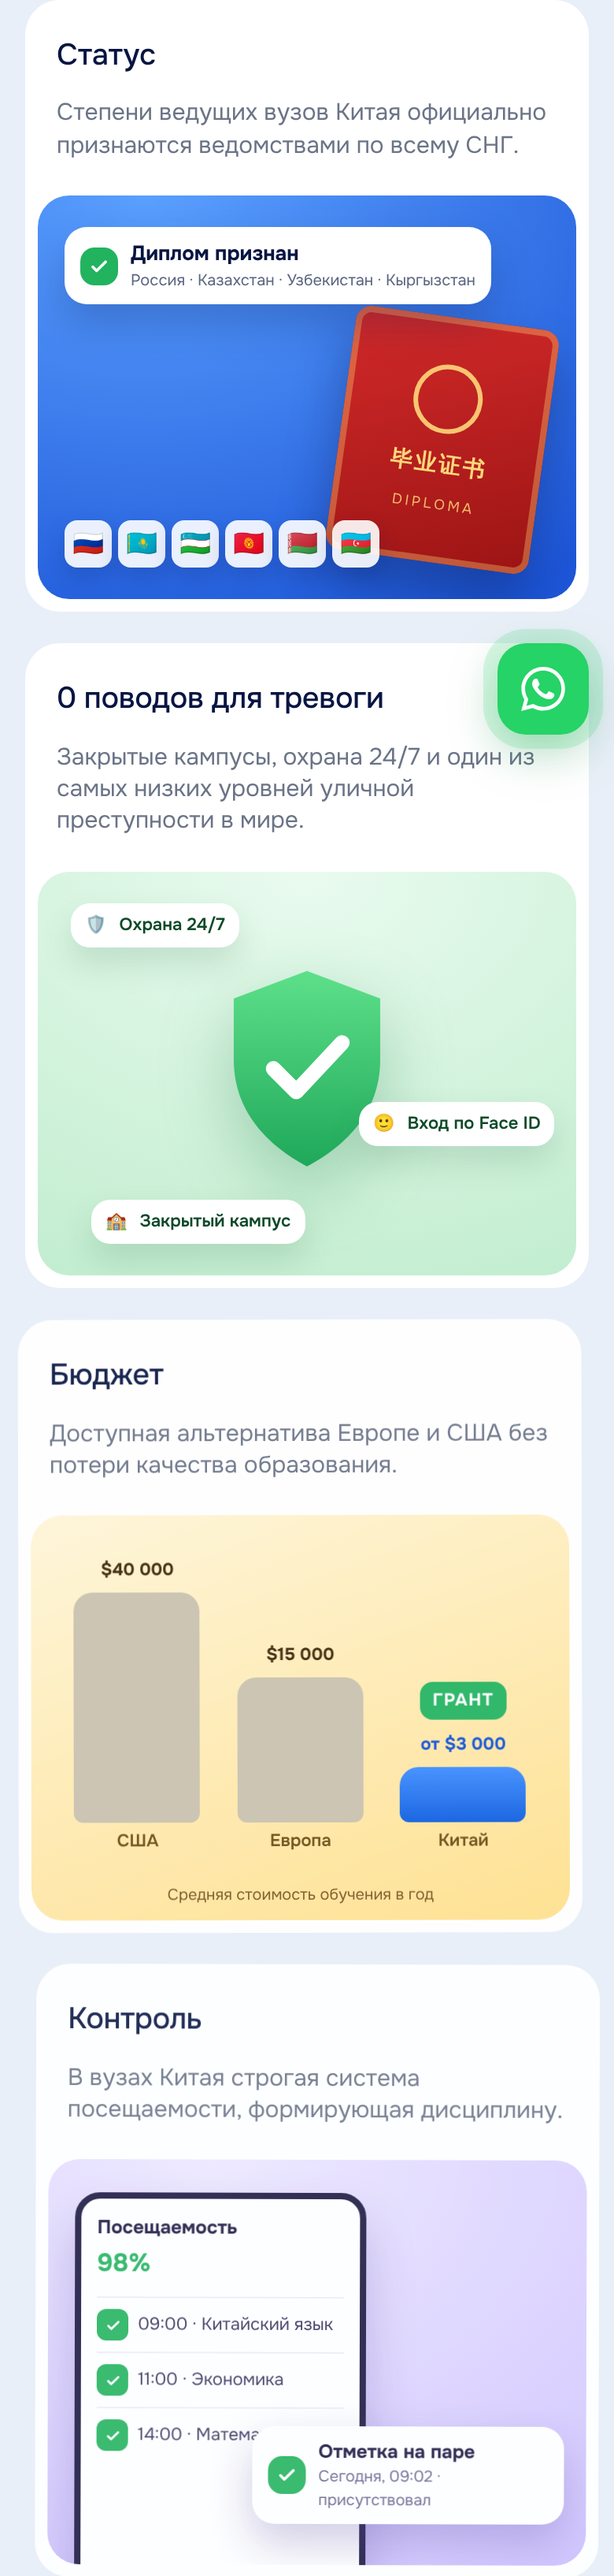
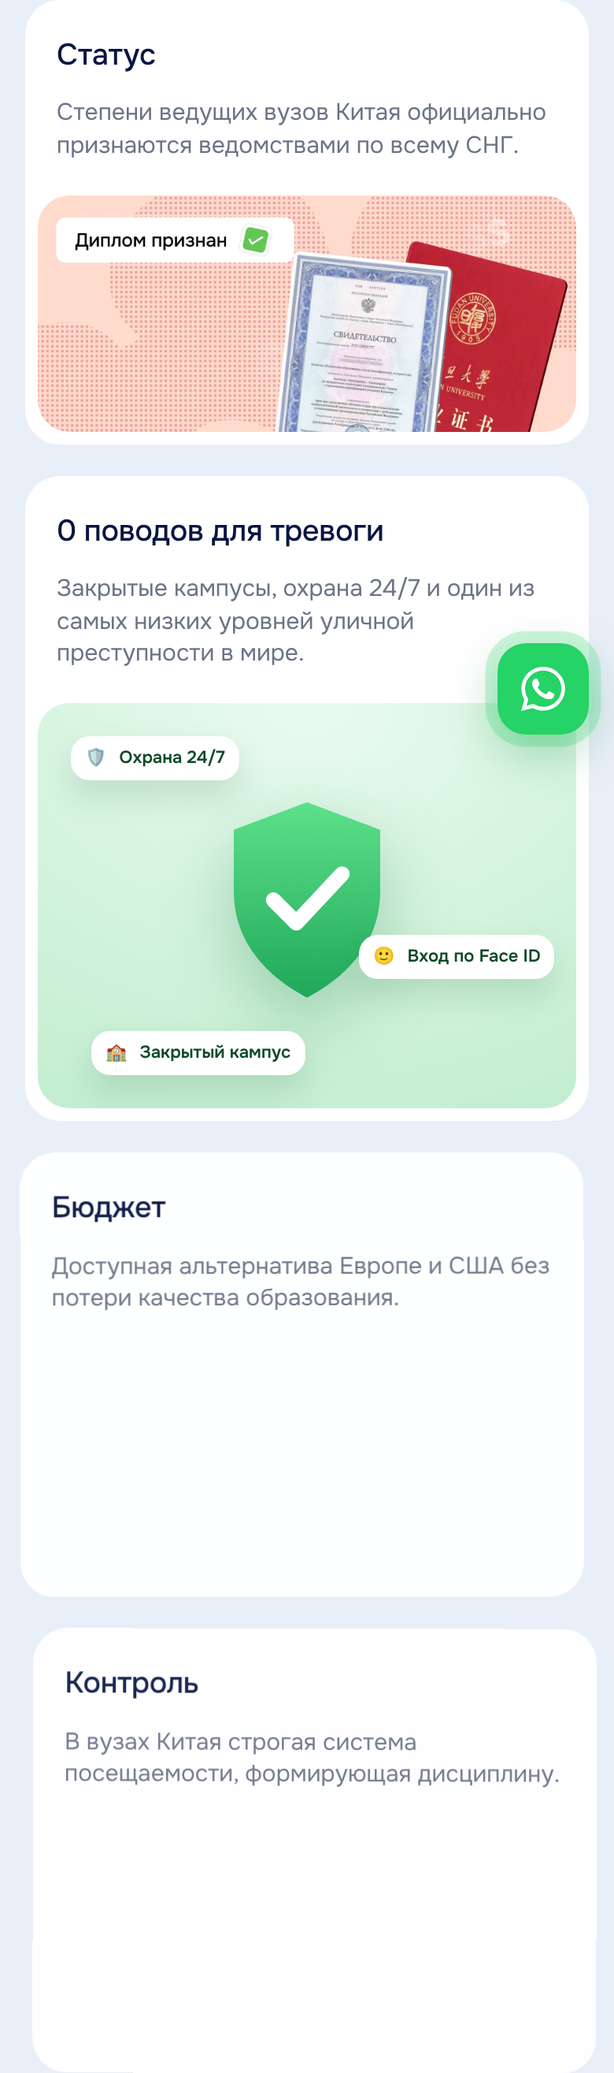
Parents tab: designer images for status, budget, control
Claude-Session: https://claude.ai/code/session_01DveQThDXrjAqWsCdBVYsEN

diff --git a/index.html b/index.html
@@ -2421,6 +2421,10 @@ a.uni-card:hover{box-shadow:0 14px 34px rgba(19,52,120,.10)}
 }
 
 .cp video{width:100%;height:100%;object-fit:cover;display:block}
+
+.pv-img{background:none!important}
+.pv-img img{width:100%;height:100%;object-fit:cover;display:block}
+@media (max-width:680px){.pv-img{aspect-ratio:1710/750!important}}
 </style>
 </head>
 <body>
@@ -2500,11 +2504,7 @@ a.uni-card:hover{box-shadow:0 14px 34px rgba(19,52,120,.10)}
         <h3 data-s="Диплом, за которым охотятся работодатели" data-p="Статус">Диплом, за которым охотятся работодатели</h3>
         <p data-s="Доступ к практике и стажировкам в глобальных IT- и технологических гигантах." data-p="Степени ведущих вузов Китая официально признаются ведомствами по всему СНГ.">Доступ к практике и стажировкам в глобальных IT- и технологических гигантах.</p>
         <img loading="lazy" decoding="async" src="assets/opt/why1.webp" alt="">
-      <div class="pv pv1" aria-hidden="true">
-  <div class="pv-dip"><span class="pv-emb"></span><b>毕业证书</b><i>DIPLOMA</i></div>
-  <div class="pv-note"><span class="pv-ok"><svg viewBox="0 0 24 24" width="14" height="14"><path d="M5 12.5l4.2 4.2L19 7" fill="none" stroke="#fff" stroke-width="3" stroke-linecap="round" stroke-linejoin="round"/></svg></span><div><b>Диплом признан</b><small>Россия · Казахстан · Узбекистан · Кыргызстан</small></div></div>
-  <div class="pv-flags"><span>🇷🇺</span><span>🇰🇿</span><span>🇺🇿</span><span>🇰🇬</span><span>🇧🇾</span><span>🇦🇿</span></div>
-</div></article>
+      <div class="pv pv1 pv-img"><img loading="lazy" decoding="async" src="assets/opt/par-status.webp" alt="Диплом признан" width="1710" height="750"></div></article>
       <article class="why-card reveal">
         <h3 data-s="Кампусы как из фильмов про будущее" data-p="0 поводов для тревоги">Кампусы как из фильмов про будущее</h3>
         <p data-s="Роботы-доставщики, пропускная система по биометрии, огромные лаборатории и спорткомплексы." data-p="Закрытые кампусы, охрана 24/7 и один из самых низких уровней уличной преступности в мире.">Роботы-доставщики, пропускная система по биометрии, огромные лаборатории и спорткомплексы.</p>
@@ -2523,27 +2523,12 @@ a.uni-card:hover{box-shadow:0 14px 34px rgba(19,52,120,.10)}
         <h3 data-s="Деньги на жизнь и путешествия" data-p="Бюджет">Деньги на жизнь и путешествия</h3>
         <p data-s="Грант покрывает не только учёбу и современное общежитие, но и даёт ежемесячную стипендию на карманные расходы." data-p="Доступная альтернатива Европе и США без потери качества образования.">Грант покрывает не только учёбу и современное общежитие, но и даёт ежемесячную стипендию на карманные расходы.</p>
         <img loading="lazy" decoding="async" src="assets/opt/why3.webp" alt="">
-      <div class="pv pv3" aria-hidden="true">
-  <div class="pv-bars">
-    <div class="bar b1"><i style="--h:92%"></i><b>$40 000</b><span>США</span></div>
-    <div class="bar b2"><i style="--h:58%"></i><b>$15 000</b><span>Европа</span></div>
-    <div class="bar b3"><em>Грант</em><i style="--h:22%"></i><b>от $3 000</b><span>Китай</span></div>
-  </div>
-  <small class="pv-cap">Средняя стоимость обучения в год</small>
-</div></article>
+      <div class="pv pv3 pv-img"><img loading="lazy" decoding="async" src="assets/opt/par-budget.webp" alt="Стоимость обучения: США, Европа, Китай" width="1710" height="750"></div></article>
       <article class="why-card reveal">
         <h3 data-s="Путешествия по всей Азии" data-p="Контроль">Путешествия по всей Азии</h3>
         <p data-s="На скоростных поездах можно легко объездить всю страну, а на каникулах дешево слетать в соседние азиатские страны." data-p="В вузах Китая строгая система посещаемости, формирующая дисциплину.">На скоростных поездах можно легко объездить всю страну, а на каникулах дешево слетать в соседние азиатские страны.</p>
         <img loading="lazy" decoding="async" src="assets/opt/why4.webp" alt="">
-      <div class="pv pv4" aria-hidden="true">
-  <div class="pv-phone">
-    <div class="pv-ph-top"><b>Посещаемость</b><span>98%</span></div>
-    <div class="pv-row"><i><svg viewBox="0 0 24 24" width="14" height="14"><path d="M5 12.5l4.2 4.2L19 7" fill="none" stroke="#fff" stroke-width="3" stroke-linecap="round" stroke-linejoin="round"/></svg></i>09:00 · Китайский язык</div>
-    <div class="pv-row"><i><svg viewBox="0 0 24 24" width="14" height="14"><path d="M5 12.5l4.2 4.2L19 7" fill="none" stroke="#fff" stroke-width="3" stroke-linecap="round" stroke-linejoin="round"/></svg></i>11:00 · Экономика</div>
-    <div class="pv-row"><i><svg viewBox="0 0 24 24" width="14" height="14"><path d="M5 12.5l4.2 4.2L19 7" fill="none" stroke="#fff" stroke-width="3" stroke-linecap="round" stroke-linejoin="round"/></svg></i>14:00 · Математика</div>
-  </div>
-  <div class="pv-push"><span class="pv-ok"><svg viewBox="0 0 24 24" width="14" height="14"><path d="M5 12.5l4.2 4.2L19 7" fill="none" stroke="#fff" stroke-width="3" stroke-linecap="round" stroke-linejoin="round"/></svg></span><div><b>Отметка на паре</b><small>Сегодня, 09:02 · присутствовал</small></div></div>
-</div></article>
+      <div class="pv pv4 pv-img"><img loading="lazy" decoding="async" src="assets/opt/par-control.webp" alt="Приложение кампуса: посещаемость и расписание" width="1710" height="750"></div></article>
     </div>
   </div>
 </div></section>
